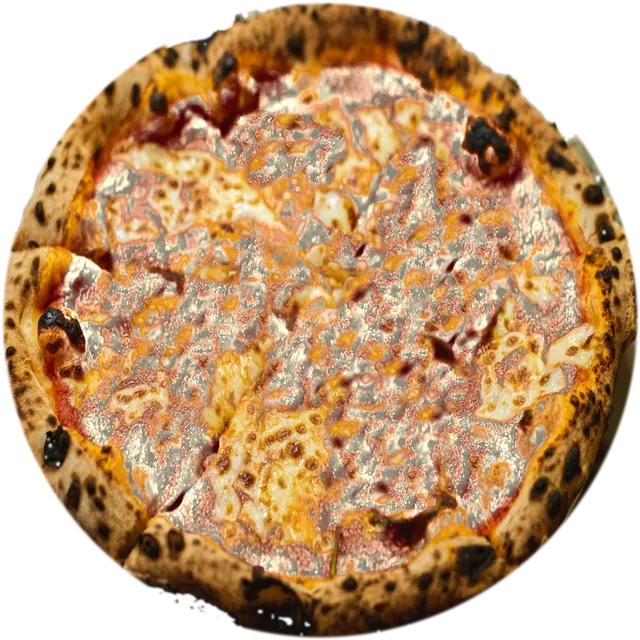
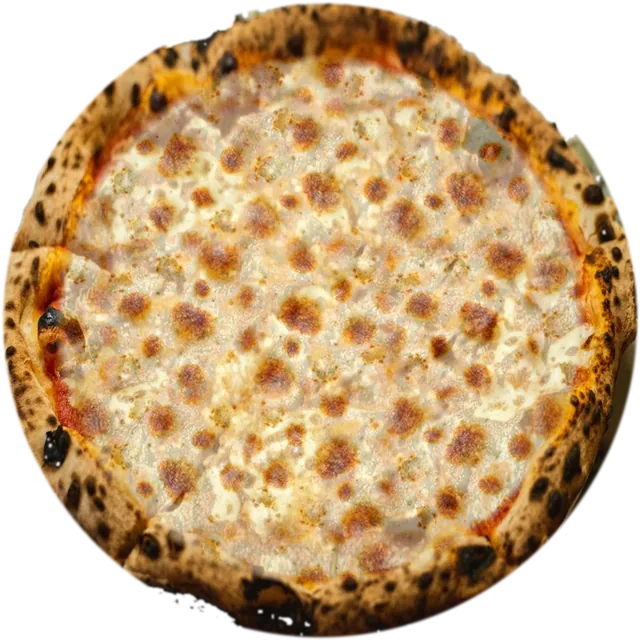
Pizza builder: photoreal pie with real-looking toppings and sauce bases
Round pies are built from photos: a real crust and red sauce base, photoreal
cheese textures for white, BBQ, pesto and no-sauce pies, and photoreal cutouts
for all 20 toppings. Detroit pan keeps its drawn base with photo toppings.

Claude-Session: https://claude.ai/code/session_01SD9EajBXtQV1MLBbZTsyoU

diff --git a/src/pizza/PizzaArt.tsx b/src/pizza/PizzaArt.tsx
@@ -290,177 +290,18 @@ export function ToppingSwatch({ t, size = 28 }: { t: Topping; size?: number }) {
   );
 }
 
-/** Small bits on a piece (fat in pepperoni, seeds, herbs), placed the same way every time for that piece. */
-function specks(seed: number, n: number, spread: number) {
-  const rand = rng(seed);
-  return Array.from({ length: n }, () => {
-    const a = rand() * Math.PI * 2;
-    const d = Math.sqrt(rand()) * spread;
-    return { x: Math.cos(a) * d, y: Math.sin(a) * d, r: 0.35 + rand() * 0.5 };
-  });
-}
+// Half-width of each topping's photo, in pie units (the pie is 200 across).
+const PHOTO_SIZE: Record<string, number> = {
+  pepperoni: 9, cupchar: 6.5, sausage: 6, bacon: 7.5, ham: 6, chicken: 6.5, meatball: 7.5, mushroom: 7.5, onion: 8, greenpepper: 7.5,
+  olive: 4.5, jalapeno: 5.5, banana: 5.5, pineapple: 6, tomato: 8, spinach: 8, basil: 7.5, garlic: 4, freshmozz: 8.5, ricotta: 7,
+};
 
-/**
- * One piece of a topping, drawn to look like the real thing: shading, a rim, the bits inside it,
- * and a shine that always comes from the top left however the piece is turned.
- */
 function Piece({ t, x, y, rot, k }: { t: Topping; x: number; y: number; rot: number; k: number }) {
-  const seed = Math.round(rot * 7) + 1;
-  const shine = (cx: number, cy: number, rx: number, ry: number, o = 0.35) => <ellipse cx={cx} cy={cy} rx={rx} ry={ry} fill="#fff" opacity={o} transform={`rotate(-35 ${cx} ${cy})`} />;
-  const pic = (name: string, n: number, w: number) => <image href={`/pizza/real/top/${name}-${Math.abs(seed) % n}.webp`} x={-w} y={-w} width={2 * w} height={2 * w} />;
-  const real = t.id === 'pepperoni' || t.id === 'cupchar' || t.id === 'tomato' || t.id === 'freshmozz' || t.id === 'ricotta';
-  const body = (() => {
-    // Real photo cutouts where we have them.
-    if (t.id === 'pepperoni') return pic('pep', 4, 8.2);
-    if (t.id === 'cupchar') return <g><circle r="6.6" fill="#2a0a04" />{pic('pep', 4, 6)}<circle r="5.9" fill="none" stroke="#2a0a04" strokeWidth="1.2" opacity="0.6" /></g>;
-    if (t.id === 'tomato') return pic('tom', 8, 7.8);
-    if (t.id === 'freshmozz' || t.id === 'ricotta') return pic('mozz', 10, t.id === 'ricotta' ? 6.5 : 8);
-    switch (t.shape) {
-      case 'disc':
-        if (t.id === 'tomato') {
-          return (
-            <g>
-              <circle r="7.6" fill="#d63a24" />
-              <circle r="7.6" fill="none" stroke="#a8220f" strokeWidth="1.1" />
-              {[0, 1, 2, 3].map((i) => <ellipse key={i} cx={Math.cos(i * 1.57 + 0.4) * 3.6} cy={Math.sin(i * 1.57 + 0.4) * 3.6} rx="2.2" ry="1.4" fill="#f08a6c" transform={`rotate(${i * 90 + 23} ${Math.cos(i * 1.57 + 0.4) * 3.6} ${Math.sin(i * 1.57 + 0.4) * 3.6})`} />)}
-              {[0, 1, 2, 3].map((i) => <circle key={`s${i}`} cx={Math.cos(i * 1.57 + 0.4) * 3.6} cy={Math.sin(i * 1.57 + 0.4) * 3.6} r="0.55" fill="#f7e2a6" />)}
-              <circle r="1.6" fill="#e4553b" />
-            </g>
-          );
-        }
-        if (t.id === 'meatball') {
-          return (
-            <g>
-              <circle r="7.4" fill="#5e321c" />
-              <circle cx="-0.8" cy="-0.8" r="5.6" fill="#7a4428" />
-              {specks(seed, 9, 5.5).map((s, i) => <circle key={i} cx={s.x} cy={s.y} r={s.r} fill={i % 3 ? '#3d1f10' : '#3f6b2a'} />)}
-              <circle r="7.4" fill="none" stroke="#3d1f10" strokeWidth="0.8" opacity="0.7" />
-            </g>
-          );
-        }
-        // Pepperoni: darker, slightly cupped edge, flecks of fat, charred spots on the rim.
-        return (
-          <g>
-            <circle r="8" fill="#a8261a" />
-            <circle cx="-0.4" cy="-0.4" r="6.2" fill="#c4392a" />
-            {specks(seed, 10, 6).map((s, i) => <circle key={i} cx={s.x} cy={s.y} r={s.r} fill="#f0b39c" opacity="0.75" />)}
-            <circle r="7.4" fill="none" stroke="#7a160c" strokeWidth="1.3" opacity="0.75" />
-            <path d="M5.2 -5.6 A7.6 7.6 0 0 1 7.6 0.4" stroke="#3a0a04" strokeWidth="1.1" fill="none" opacity="0.55" strokeLinecap="round" />
-          </g>
-        );
-      case 'cup':
-        // Cup and char: curls up into a little cup with a crispy black edge and oil pooled inside.
-        return (
-          <g>
-            <circle r="6.4" fill="#4a0e06" />
-            <circle r="5.4" fill="#9e2414" />
-            <circle cx="0.4" cy="0.5" r="3.8" fill="#c4442a" />
-            <ellipse cx="0.6" cy="0.8" rx="2.4" ry="1.9" fill="#e8892b" opacity="0.7" />
-          </g>
-        );
-      case 'crumble':
-        return (
-          <g>
-            <path d="M-3.8 -1.2 Q-3 -4.2 0.2 -3.6 Q3.2 -4 3.8 -0.8 Q4.4 2.2 1.6 3.4 Q-1 4.4 -3 2.6 Q-4.6 1 -3.8 -1.2Z" fill="#6d3a20" />
-            <path d="M-2.6 -1 Q-1.8 -3 0.4 -2.6 Q2.4 -2.6 2.6 -0.4 Q2.6 1.8 0.6 2.2 Q-1.6 2.6 -2.6 1Z" fill="#8a4e2c" />
-            {specks(seed, 4, 2.4).map((s, i) => <circle key={i} cx={s.x} cy={s.y} r={s.r * 0.8} fill={i % 2 ? '#c9a46a' : '#3d1f10'} />)}
-          </g>
-        );
-      case 'strip':
-        if (t.kind === 'meat') {
-          // Bacon: wavy, with stripes of crisp fat.
-          return (
-            <g>
-              <path d="M-9 -2.4 Q-4.5 -4.6 0 -2.4 T9 -2.4 L9 2.4 Q4.5 4.6 0 2.4 T-9 2.4Z" fill="#8c2f1f" />
-              <path d="M-9 -0.6 Q-4.5 -2.4 0 -0.6 T9 -0.6" stroke="#f1c2a4" strokeWidth="1.3" fill="none" opacity="0.85" />
-              <path d="M-9 1.6 Q-4.5 -0.2 0 1.6 T9 1.6" stroke="#5e1a0e" strokeWidth="0.8" fill="none" opacity="0.7" />
-            </g>
-          );
-        }
-        // Green pepper: a curved strip with a pale inner wall.
-        return (
-          <g>
-            <path d="M-8 1 Q0 -5.5 8 1" stroke="#1f6b2b" strokeWidth="3.2" fill="none" strokeLinecap="round" />
-            <path d="M-7.2 1.4 Q0 -4.4 7.2 1.4" stroke="#7fbf6a" strokeWidth="0.9" fill="none" strokeLinecap="round" />
-          </g>
-        );
-      case 'square':
-        // Ham: pink slice with a pale, fatty edge.
-        return (
-          <g>
-            <path d="M-5 -4.6 Q0 -5.4 5 -4.6 Q5.6 0 5 4.6 Q0 5.4 -5 4.6 Q-5.6 0 -5 -4.6Z" fill="#ea9187" />
-            <path d="M-3.8 -3.4 Q0 -4 3.8 -3.4 Q4.2 0 3.8 3.4 Q0 4 -3.8 3.4 Q-4.2 0 -3.8 -3.4Z" fill="#f2a59b" />
-            <path d="M-5 4.6 Q0 5.4 5 4.6" stroke="#fbe1da" strokeWidth="1.2" fill="none" />
-          </g>
-        );
-      case 'cube':
-        // Grilled chicken: pale meat with dark grill marks.
-        return (
-          <g>
-            <path d="M-4.2 -3.2 Q0 -4.2 4.2 -3.4 Q4.8 0 4 3.4 Q0 4.2 -4 3.4 Q-4.8 0 -4.2 -3.2Z" fill="#e3c792" />
-            <path d="M-3 -2.6 L1 -3.4 M-3.4 0.4 L3.4 -1 M-2 3 L3.6 1.8" stroke="#6b4320" strokeWidth="0.9" strokeLinecap="round" opacity="0.8" />
-          </g>
-        );
-      case 'slice':
-        // Mushroom: cap and stem with gills.
-        return (
-          <g>
-            <path d="M-5.8 1.2 Q-6 -5.4 0 -5.6 Q6 -5.4 5.8 1.2 Q3 2 2 1.4 L2.2 4.8 Q0 5.6 -2.2 4.8 L-2 1.4 Q-3 2 -5.8 1.2Z" fill="#cdb48e" />
-            <path d="M-4.6 0.4 Q-4.6 -4.2 0 -4.4 Q4.6 -4.2 4.6 0.4" fill="none" stroke="#8a6a45" strokeWidth="0.6" />
-            <path d="M-3 -0.4 L-2 -3 M-1 -0.2 L-0.6 -3.6 M1 -0.2 L0.8 -3.6 M3 -0.4 L2.2 -3" stroke="#a78a64" strokeWidth="0.45" />
-            <path d="M-5.8 1.2 Q-6 -5.4 0 -5.6 Q6 -5.4 5.8 1.2" fill="none" stroke="#7d5f3d" strokeWidth="0.8" />
-          </g>
-        );
-      case 'ring':
-        if (t.id === 'olive') {
-          return <g><circle r="3.6" fill="none" stroke="#1b1b1b" strokeWidth="2.4" /><circle r="3.6" fill="none" stroke="#3b3b3b" strokeWidth="0.6" strokeDasharray="4 3" /></g>;
-        }
-        if (t.id === 'onion') {
-          return <g><circle r="5.2" fill="none" stroke="#8e3f88" strokeWidth="1.6" opacity="0.9" /><circle r="4.3" fill="none" stroke="#f1e2ef" strokeWidth="0.6" opacity="0.8" /><circle r="3.2" fill="none" stroke="#a65aa0" strokeWidth="1" opacity="0.7" /></g>;
-        }
-        // Jalapeño and banana pepper rings: a skin, a paler wall and seeds in the middle.
-        return (
-          <g>
-            <circle r="5" fill={t.id === 'jalapeno' ? '#d9e8b0' : '#f3eaa6'} opacity="0.9" />
-            <circle r="5" fill="none" stroke={t.color} strokeWidth="1.8" />
-            {specks(seed, 5, 2).map((s, i) => <circle key={i} cx={s.x} cy={s.y} r={0.55} fill="#f7f1d2" stroke="#c9bf8a" strokeWidth="0.2" />)}
-          </g>
-        );
-      case 'leaf':
-        if (t.id === 'basil') {
-          return <g><path d="M-6.4 0 Q-1 -6.2 6.4 0 Q-1 6.2 -6.4 0Z" fill="#2f7a2a" /><path d="M-5.6 0 Q-1 -4.6 5.4 0" fill="#3f9436" opacity="0.6" /><path d="M-5.4 0 H5.4 M-2 0 L0 -2.6 M1 0 L3 -2 M-2 0 L0 2.6 M1 0 L3 2" stroke="#9fd18c" strokeWidth="0.4" opacity="0.7" /></g>;
-        }
-        // Spinach: dark, wilted from the oven.
-        return <g><path d="M-6 0.4 Q-3 -5.6 2 -4.6 Q6.6 -2 6 0.6 Q2.4 5 -1.6 4.4 Q-5.4 3.4 -6 0.4Z" fill="#1f5222" /><path d="M-5 0.6 Q0 -1 5.4 0.4" stroke="#5a8f4a" strokeWidth="0.5" fill="none" /></g>;
-      case 'chunk':
-        // Pineapple: juicy wedge with fibers.
-        return (
-          <g>
-            <path d="M-4.4 -3.2 L4.2 -4.2 L5.2 3.2 L-3.4 4.2Z" fill="#f2c94c" />
-            <path d="M-4.4 -3.2 L4.2 -4.2" stroke="#d49a12" strokeWidth="1.2" />
-            <path d="M-2.4 -2.6 L-1.4 3.6 M0 -3 L1 3.8 M2.2 -3.4 L3.2 3.4" stroke="#e6b42a" strokeWidth="0.5" opacity="0.8" />
-          </g>
-        );
-      case 'dollop':
-        // Fresh mozzarella and ricotta: soft white puddles, browned a little on top.
-        return (
-          <g>
-            <path d="M-6.2 0.4 Q-6.6 -5.6 -0.6 -6.2 Q5.8 -6.4 6.2 -0.6 Q6.4 5.4 0.4 6.2 Q-6 5.8 -6.2 0.4Z" fill={t.color} />
-            <path d="M-6.2 0.4 Q-6.6 -5.6 -0.6 -6.2 Q5.8 -6.4 6.2 -0.6 Q6.4 5.4 0.4 6.2 Q-6 5.8 -6.2 0.4Z" fill="none" stroke={t.accent ?? '#e9e1c9'} strokeWidth="1" />
-            <ellipse cx="1.6" cy="1.4" rx="2" ry="1.4" fill="#d8a45c" opacity={t.id === 'freshmozz' ? 0.35 : 0.15} />
-          </g>
-        );
-      case 'dot':
-        // Roasted garlic clove.
-        return <g><path d="M-2.8 1.4 Q-3 -2.2 0 -2.4 Q3 -2.2 2.8 1.4 Q0 2.6 -2.8 1.4Z" fill="#e9c98a" /><path d="M-2.2 1.2 Q0 -1 2.2 1.2" stroke="#b07f3c" strokeWidth="0.5" fill="none" /></g>;
-    }
-  })();
-  const r = REACH[t.shape];
-  const shiny = !real && (t.shape === 'disc' || t.shape === 'cup' || t.shape === 'dollop' || t.id === 'olive');
+  const w = PHOTO_SIZE[t.id] ?? REACH[t.shape];
+  const n = Math.abs(Math.round(rot * 7) + 1) % 4;
   return (
-    <g transform={`translate(${x} ${y}) scale(${k})`}>
-      <g transform={`rotate(${rot})`}>{body}</g>
-      {shiny && shine(-r * 0.32, -r * 0.36, r * 0.32, r * 0.15, t.shape === 'dollop' ? 0.5 : 0.32)}
+    <g transform={`translate(${x} ${y}) scale(${k}) rotate(${rot})`}>
+      <image href={`/pizza/real/top/${t.id}-${n}.webp`} x={-w} y={-w} width={2 * w} height={2 * w} />
     </g>
   );
 }

diff --git a/README.md b/README.md
@@ -40,7 +40,7 @@ size), 90 days of generated sales, the forecast and the 48 hour dough plan, stoc
 quote times from what is on the make line, and grouping deliveries into runs. The chat sends `mode: "pizza"` to
 `/api/ask`, which answers with pizza instructions and the same daily cap.
 
-Pizza photos in `public/pizza/` are from [Unsplash](https://unsplash.com) under the Unsplash License.
+Pizza photos in `public/pizza/` are from [Unsplash](https://unsplash.com) under the Unsplash License. The build-your-pizza pie in `public/pizza/real/` uses a real Unsplash photo for the crust and red sauce base; the topping cutouts and the white, BBQ, pesto and no-sauce cheese textures are AI-generated photoreal images (made in Canva), standing in until a shop uploads its own photos.
 
 ## Not built yet
 
